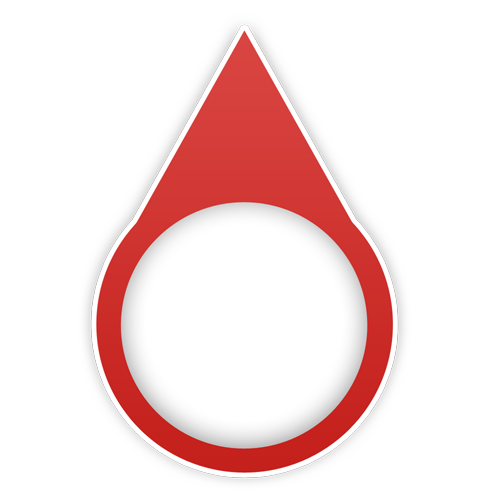
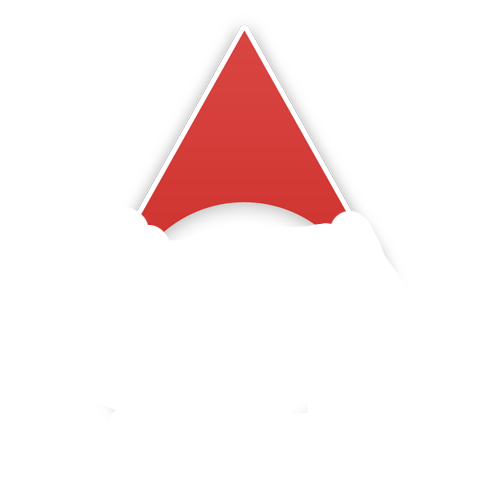
Заменены маркеры

Changed region(s): [[0.15, 0.42, 0.81, 0.96]]

diff --git a/lib/pages/home.dart b/lib/pages/home.dart
@@ -123,13 +123,28 @@ class HomePageState extends State<HomePage> {
                             bus["u_course"],
                           ),
                           child: const SizedBox(
-                              width: 30.0,
-                              height: 30.0,
-                              child: Image(
+                            width: 40.0,
+                            height: 40.0,
+                            child: Stack(
+                                textDirection: TextDirection.ltr,
+                                alignment: AlignmentDirectional.center,
+                                children: <Widget>[
+                              Image(
                                 image: AssetImage(
-                                  "assets/images/red-circle.png",
+                                  "assets/images/marker.png",
                                 ),
-                              )),
+                              ),
+                              SizedBox(
+                                width: 25.0,
+                                height: 25.0,
+                                child: Image(
+                                  image: AssetImage(
+                                    "assets/images/red-circle.png",
+                                  ),
+                                ),
+                              ),
+                            ]),
+                          ),
                         ))))
                 : (Container(
                     padding: const EdgeInsets.only(top: 0.0, left: 0.0),
@@ -138,13 +153,28 @@ class HomePageState extends State<HomePage> {
                         bus["u_course"],
                       ),
                       child: const SizedBox(
-                          width: 30.0,
-                          height: 30.0,
-                          child: Image(
+                        width: 40.0,
+                        height: 40.0,
+                        child: Stack(
+                            textDirection: TextDirection.ltr,
+                            alignment: AlignmentDirectional.center,
+                            children: <Widget>[
+                          Image(
                             image: AssetImage(
-                              "assets/images/red-circle.png",
+                              "assets/images/marker.png",
                             ),
-                          )),
+                          ),
+                          SizedBox(
+                            width: 25.0,
+                            height: 25.0,
+                            child: Image(
+                              image: AssetImage(
+                                "assets/images/red-circle.png",
+                              ),
+                            ),
+                          ),
+                        ]),
+                      ),
                     )));
             markers.add(Marker(
               width: 50,
@@ -158,8 +188,8 @@ class HomePageState extends State<HomePage> {
                       alignment: AlignmentDirectional.center,
                       children: <Widget>[
                         SizedBox(
-                          width: 30,
-                          height: 30,
+                          width: 40,
+                          height: 40,
                           child: InkWell(
                             // splashColor: Colors.green, // splash color
                             onTap: () {}, // button pressed
@@ -177,8 +207,8 @@ class HomePageState extends State<HomePage> {
                           padding: const EdgeInsets.only(
                               top: 0, bottom: 0, left: 0, right: 0),
                           alignment: Alignment.center,
-                          width: 30,
-                          height: 30,
+                          width: 25,
+                          height: 25,
                           child: FittedBox(
                             fit: BoxFit.fitWidth,
                             child: Padding(
@@ -207,7 +237,6 @@ class HomePageState extends State<HomePage> {
 
   Future<String> getSsid() async {
     markers.clear();
-    // print("getting sid");
     String url = 'https://mu-kgt.ru/regions/api/rpc.php';
     String body =
         '{"jsonrpc":"2.0","method":"startSession","params":{},"id":1}';
@@ -221,9 +250,6 @@ class HomePageState extends State<HomePage> {
   }
 
   Future<List> getBuses(sid, busIds) async {
-    // print("getting buses");
-
-    // markers.clear();
     String url = 'https://mu-kgt.ru/regions/api/rpc.php';
     String body =
         '{"jsonrpc":"2.0","method":"getUnits","params":{"sid":"$sid","marshList":$busIds},"id":1}';
@@ -234,7 +260,6 @@ class HomePageState extends State<HomePage> {
         },
         body: body);
     var data = json.decode(response.body);
-    // print(data);
     return data["result"];
   }
 }
